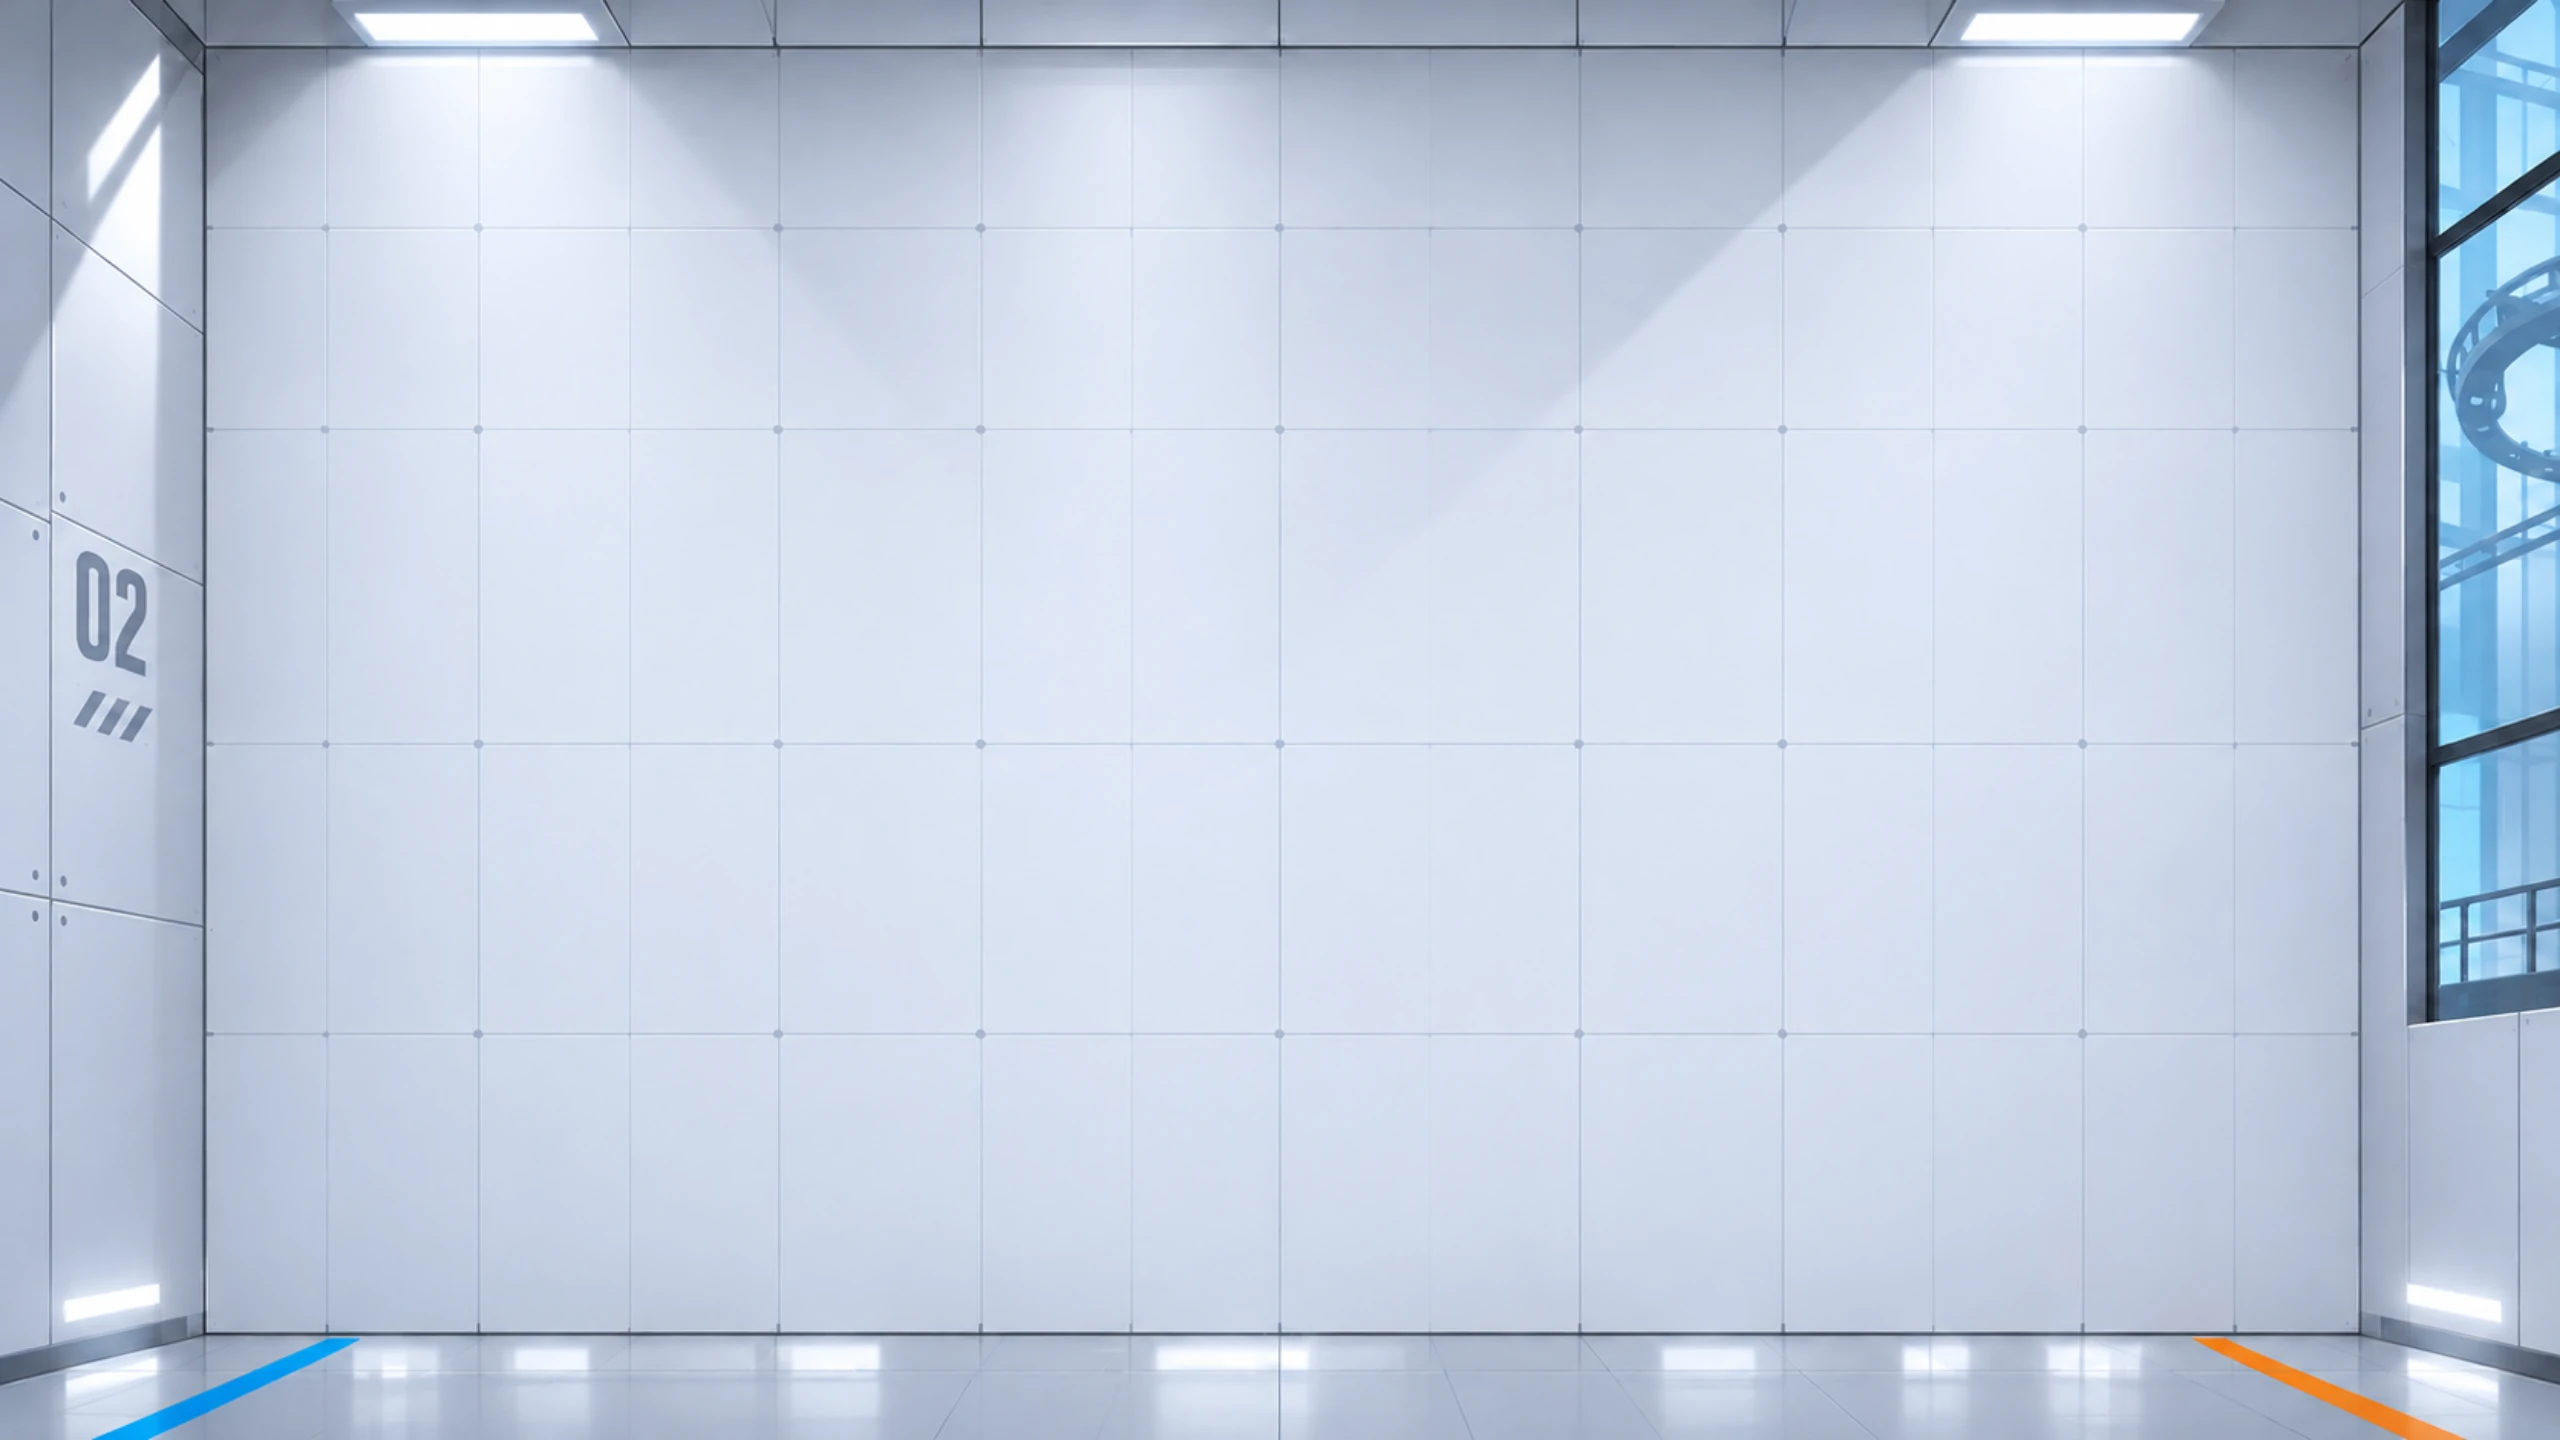
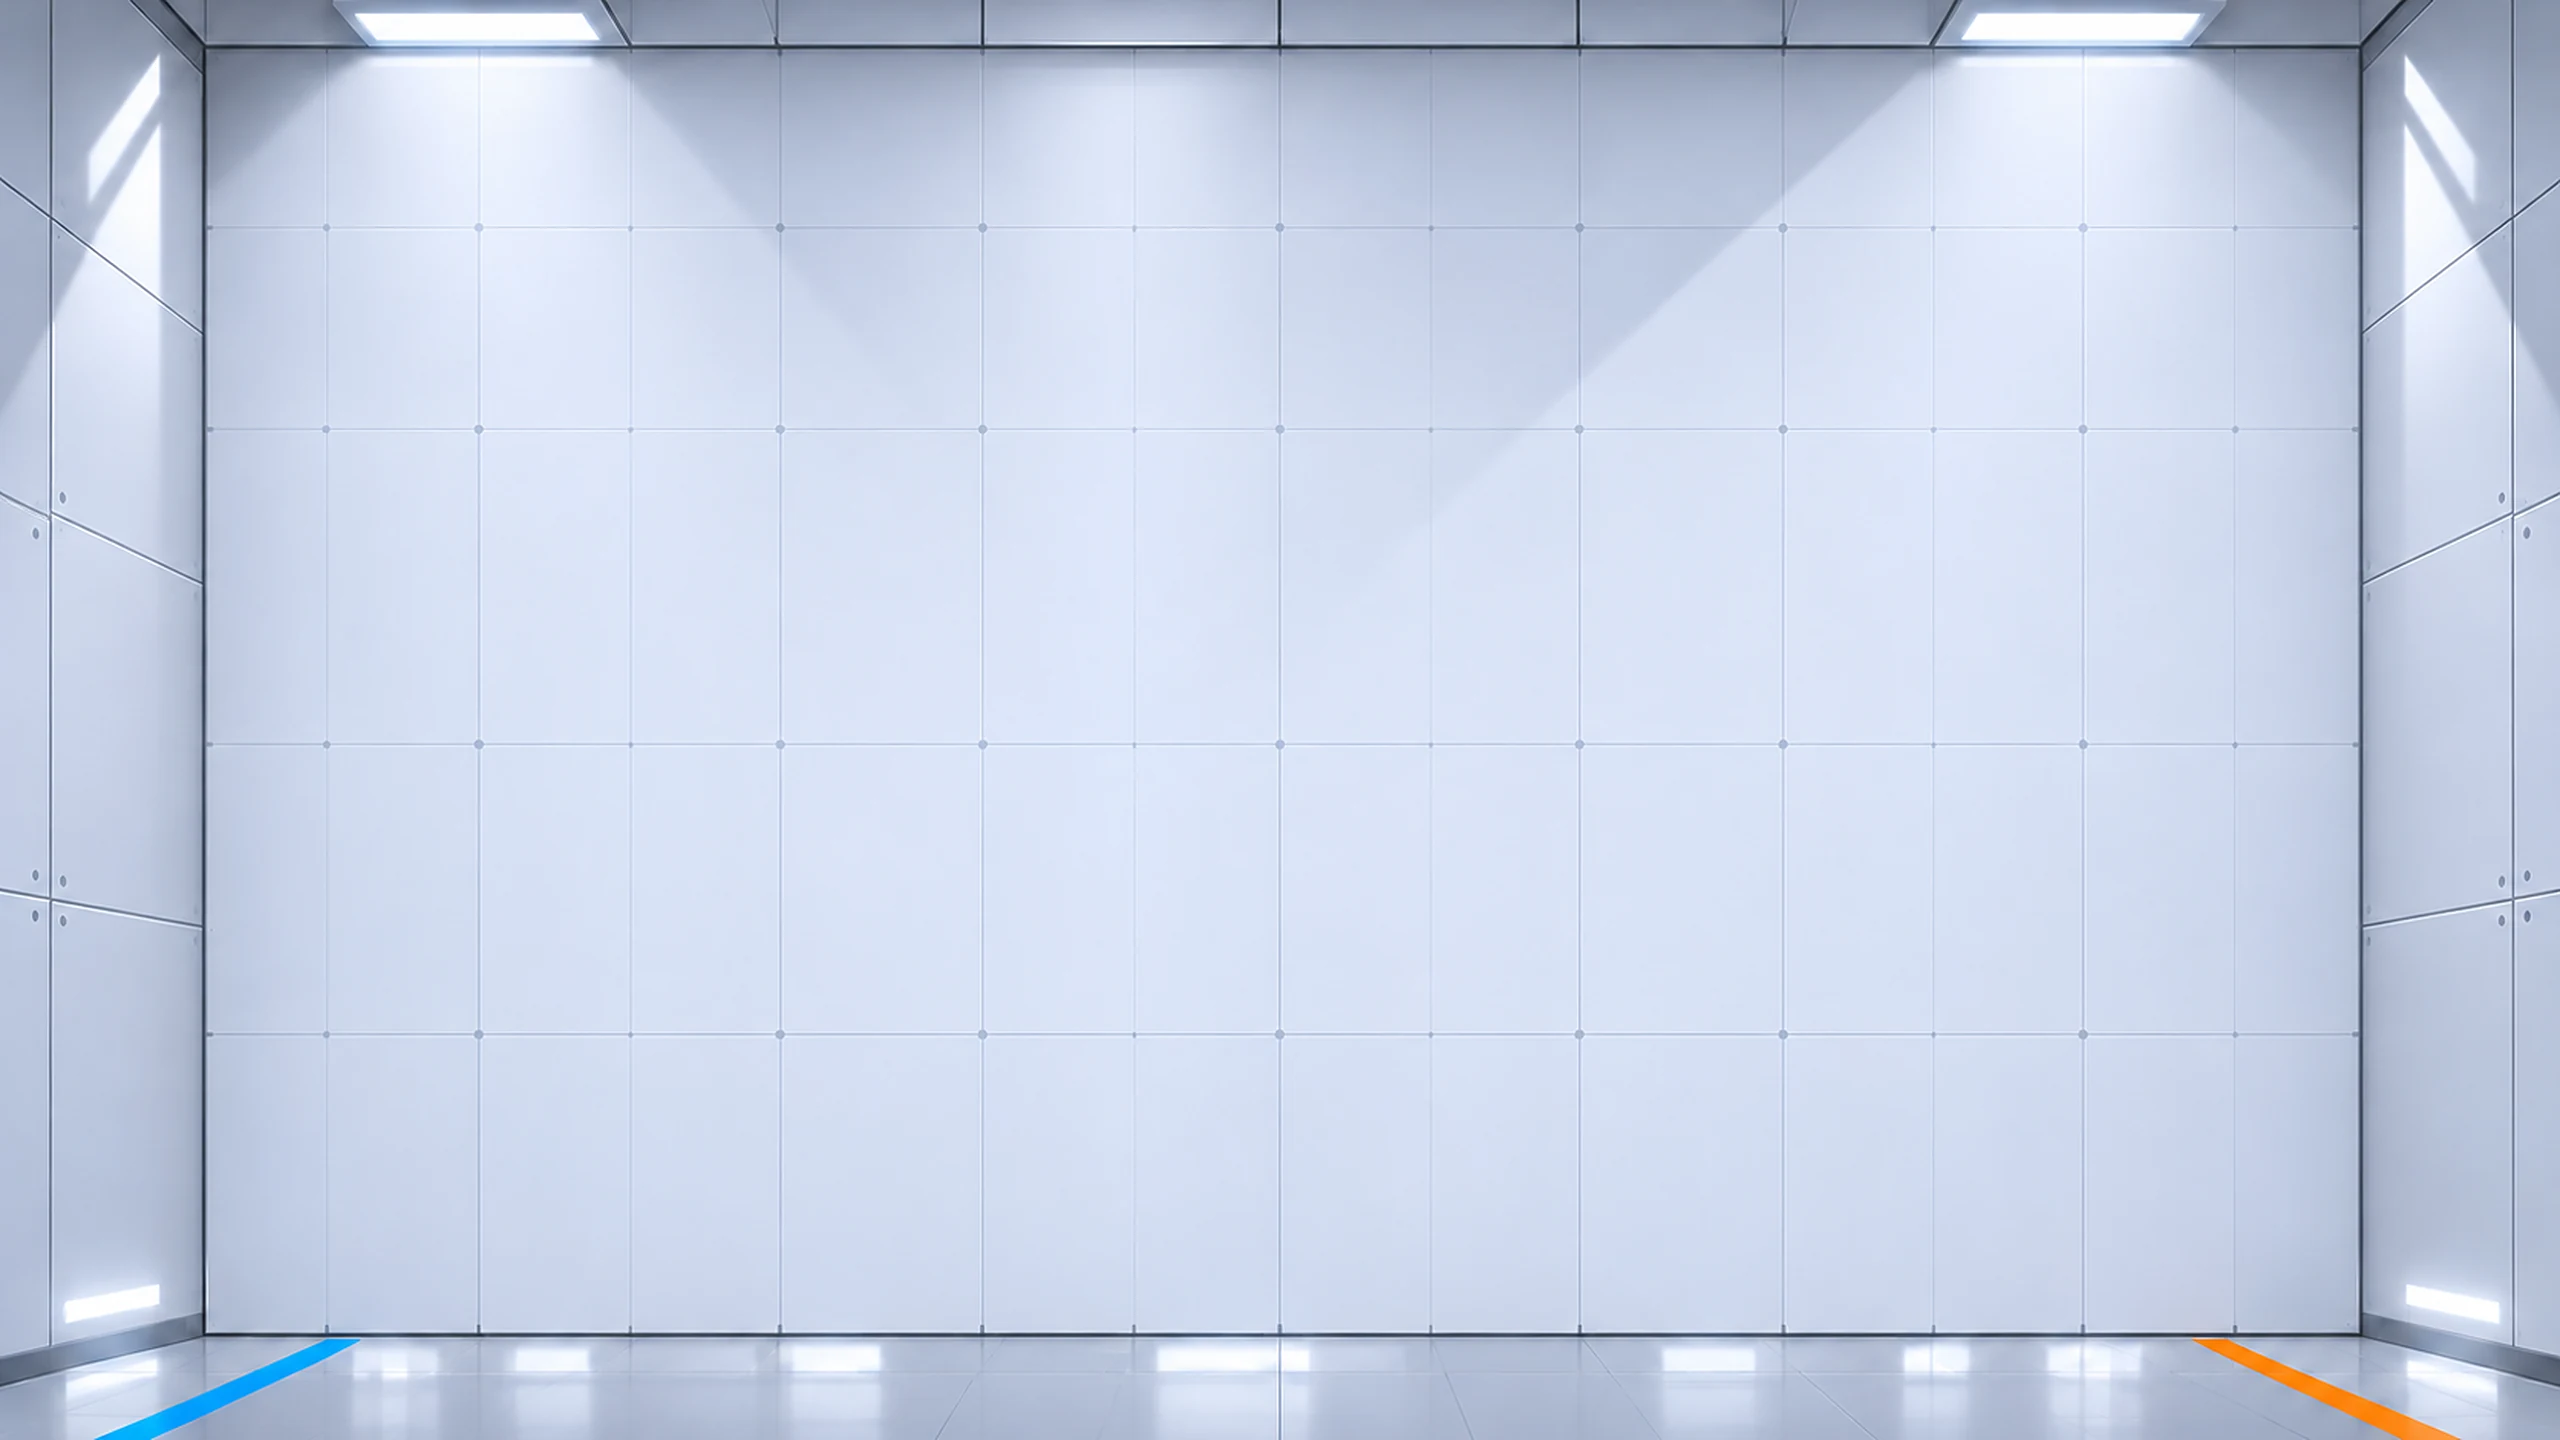
Improvements

diff --git a/src/components/chamber_card.vue b/src/components/chamber_card.vue
@@ -1,8 +1,8 @@
 <script setup lang="ts">
 /**
  * A chamber sign on the home screen: its name and subtitle on the left, its
- * number on the right, a live preview drawn by the game's own renderer, and
- * whether the player has completed it.
+ * number on the right behind a test-subject figure that turns green once the
+ * player has completed it, and a live preview drawn by the game's own renderer.
  */
 import {onBeforeUnmount, onMounted, useTemplateRef} from 'vue'
 import {drawChamberPreview} from '@/game/chamber_preview'
@@ -64,11 +64,14 @@ onBeforeUnmount(() => {
         <span class="sign-card-title">Chamber {{ chamber.number }}</span>
         <span class="card-subtitle">{{ chamber.subtitle }}</span>
       </span>
-      <svg v-if="completed" class="card-check" viewBox="0 0 16 16" aria-hidden="true">
-        <title>Completed</title>
-        <path d="M3 8.5l3.2 3.2L13 4.8" />
-      </svg>
-      <span class="card-number sign-card-mark">{{ chamber.number }}</span>
+      <span
+        class="card-subject"
+        :class="{
+          'card-subject-completed': completed,
+        }"
+        aria-hidden="true"
+      ></span>
+      <span class="card-number">{{ chamber.number }}</span>
     </span>
     <span ref="previewFrame" class="card-preview">
       <canvas ref="previewCanvas"></canvas>
@@ -87,6 +90,7 @@ onBeforeUnmount(() => {
 
 /* Large chamber number at the header strip's right edge */
 .card-number {
+  flex: none;
   font-family: var(--font-display);
   font-size: 4.5rem;
   font-weight: 700;
@@ -103,16 +107,32 @@ onBeforeUnmount(() => {
   text-transform: uppercase;
 }
 
-/* Completion mark just before the number */
-.card-check {
+/* Test subject peeking out beside the number, as tall as the number: grey until the chamber is
+   completed, then a glowing green. The figure is a mask on the layer inside, since a mask would also
+   cut off a glow set on the same element */
+.card-subject {
+  position: relative;
   flex: none;
-  width: 2rem;
-  height: 2rem;
-  fill: none;
-  stroke: var(--color-blue-deep);
-  stroke-width: 2;
-  stroke-linecap: round;
-  stroke-linejoin: round;
+  height: 3.825rem;
+  aspect-ratio: 157 / 380;
+}
+
+.card-subject::before {
+  content: '';
+  position: absolute;
+  inset: 0;
+  background: rgba(var(--color-ink-rgb), 0.35);
+  mask: url('@/assets/images/level_indicator.png') center / contain no-repeat;
+}
+
+.card-subject-completed {
+  filter:
+    drop-shadow(0 0 0.25rem rgba(var(--color-subject-rgb), 0.7))
+    drop-shadow(0 0 0.75rem rgba(var(--color-subject-rgb), 0.45));
+}
+
+.card-subject-completed::before {
+  background: var(--color-subject);
 }
 
 /* Live chamber preview, filling the rest of the card */

diff --git a/src/assets/styles.css b/src/assets/styles.css
@@ -22,6 +22,10 @@
   --color-orange: rgba(255, 160, 30, 1);
   --color-orange-rgb: 255, 160, 30;
 
+  /* Test subject's body colour from the game, lightened: marks a completed chamber on its card */
+  --color-subject: rgba(40, 200, 130, 1);
+  --color-subject-rgb: 40, 200, 130;
+
   /* Chamber backdrop, matching the game's canvas */
   --color-chamber: rgba(32, 32, 32, 1);
 
@@ -120,7 +124,7 @@ a {
   background: var(--color-wall) url('@/assets/images/facility_room.webp') center / cover no-repeat;
 }
 
-/* Padding keeps the content on the room's back wall, clear of the side walls, window and floor */
+/* Padding keeps the content on the room's back wall, clear of the side walls and floor */
 .room-inner {
   max-width: calc(90rem + 20vw);
   margin: 0 auto;

diff --git a/AGENTS.md b/AGENTS.md
@@ -11,7 +11,7 @@ src/
   main.ts, app.vue, router.ts     entry, desktop-only gate, routes (/, /settings, /chamber/:number)
   assets/styles.css               design tokens and shared classes (.wall, .room, .sign-card, .button-*, .keycap)
   assets/audio/                   music and sound effects, imported so Vite fingerprints them
-  assets/images/                  the test-room photo behind the home and settings screens (WebP)
+  assets/images/                  the test-room photo behind the home and settings screens (WebP), the test-subject figure on chamber cards
   chambers/chamber_N.json         chamber layouts (format: docs/elements.md)
   components/screens/             home_screen, settings_screen, chamber_screen
   components/                     chamber card, settings switch (both sign cards), section heading, legend, dialogs (dialog_frame is the shared shell), logo, desktop-only notice
@@ -53,8 +53,8 @@ public/                           favicon only
 ## UI
 
 - Always use the `frontend-design` skill when changing the UI.
-- Direction: test-facility signage. Cool light panels on a seamed wall (the home and settings screens sit on a photo of a test room instead, via `.room` and `.room-inner`, which keep their content on the room's back wall, clear of the side walls, window and floor; both share `.room-header`, so the sign title and the navigation button sit in the same place on each), sign cards with cut corners whose frame glows blue when hovered or focused (name on the left, a divider and the chamber number or icon on the right), thin rules, chamber numbers as large sign numerals, and the game's own portal colours as the only accents: blue marks interaction and completion, orange marks caution (actions that discard progress). Keep both meanings consistent.
-- Tokens live on `:root` in `src/assets/styles.css` (`--color-wall`, `--color-panel`, `--color-rule`, `--color-ink`, `--color-ink-muted`, `--color-blue`, `--color-blue-deep`, `--color-orange`, `--color-chamber`, plus `-rgb` triplets for alpha). Use tokens, not new colours.
+- Direction: test-facility signage. Cool light panels on a seamed wall (the home and settings screens sit on a photo of a test room instead, via `.room` and `.room-inner`, which keep their content on the room's back wall, clear of the side walls and floor; both share `.room-header`, so the sign title and the navigation button sit in the same place on each), sign cards with cut corners whose frame glows blue when hovered or focused (name on the left; on the right, a settings card shows a divider and its icon, and a chamber card shows the test-subject figure and its number, the figure grey until the chamber is completed and green after), thin rules, chamber numbers as large sign numerals, and the game's own colours as the only accents: blue marks interaction and success (the chamber-complete dialog), orange marks caution (actions that discard progress), and the test subject's green marks a completed chamber on its card. Keep these meanings consistent.
+- Tokens live on `:root` in `src/assets/styles.css` (`--color-wall`, `--color-panel`, `--color-rule`, `--color-ink`, `--color-ink-muted`, `--color-blue`, `--color-blue-deep`, `--color-orange`, `--color-subject`, `--color-chamber`, plus `-rgb` triplets for alpha). Use tokens, not new colours.
 - Type: `Barlow Condensed` for display (wordmark, sign numerals, titles), `Barlow` for everything else.
 - CSS colours are always `rgba()`, never hex (the game's canvas colours are the exception, see above). `border-radius` in `rem` (exception: `50%` for circles).
 - Repeated CSS goes to `src/assets/styles.css`; component-specific styles stay in scoped `<style>` blocks.
